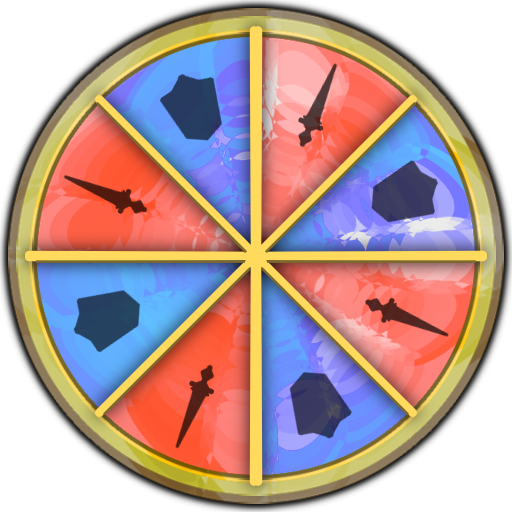
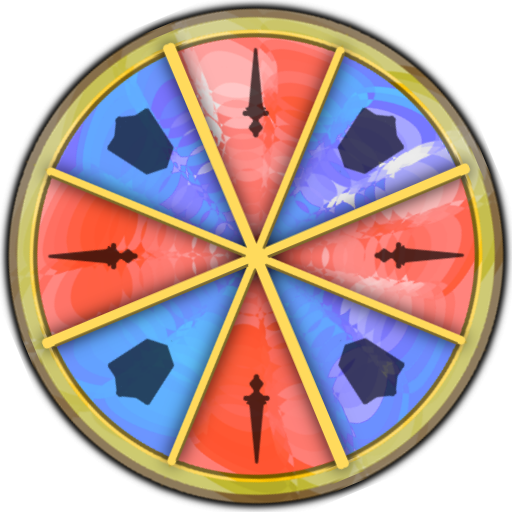
Some wheely good progress

diff --git a/src/main/java/theGambler/wheel/Wheel.java b/src/main/java/theGambler/wheel/Wheel.java
@@ -13,6 +13,8 @@ import com.megacrit.cardcrawl.cards.DamageInfo;
 import com.megacrit.cardcrawl.core.Settings;
 import com.megacrit.cardcrawl.dungeons.AbstractDungeon;
 import com.megacrit.cardcrawl.helpers.Hitbox;
+import com.megacrit.cardcrawl.helpers.TipHelper;
+import com.megacrit.cardcrawl.helpers.input.InputHelper;
 import theGambler.actions.RepeatCardAction;
 import theGambler.util.TexLoader;
 
@@ -24,7 +26,7 @@ import static theGambler.util.Wiz.att;
 
 public class Wheel {
 
-    public static Texture wheelImg = TexLoader.getTexture("fortunoResources/images/ui/Wheel.png");
+    public static Texture wheelImg = TexLoader.getTexture("fortunoResources/images/ui/DebugWheel.png");
     public static Texture arrowImg = TexLoader.getTexture("fortunoResources/images/ui/Arrow.png");
 
     public static ArrayList<ArrayList<AbstractCard>> slots;
@@ -50,14 +52,14 @@ public class Wheel {
 
     public static void atGameStart() {
         hbs = new ArrayList<>();
-        hbs.add(new Hitbox(POSITION_X - 85, POSITION_Y + 85, 76, 76));
-        /*
-        for (int i = 0; i < 8; i++) {
-            float x = POSITION_X - 256F - 60 - 128F;
-            float y = POSITION_Y - 256F - 60;
-            hbs.add(new Hitbox(x, y, 60, 60));
-        }
-         */
+        hbs.add(new Hitbox(POSITION_X - 35, POSITION_Y + 90, 76, 76));
+        hbs.add(new Hitbox(POSITION_X + 55, POSITION_Y + 50, 76, 76));
+        hbs.add(new Hitbox(POSITION_X + 95, POSITION_Y - 35, 76, 76));
+        hbs.add(new Hitbox(POSITION_X + 60, POSITION_Y - 120, 76, 76));
+        hbs.add(new Hitbox(POSITION_X - 35, POSITION_Y - 150, 76, 76));
+        hbs.add(new Hitbox(POSITION_X - 125, POSITION_Y - 120, 76, 76));
+        hbs.add(new Hitbox(POSITION_X - 165, POSITION_Y - 30, 76, 76));
+        hbs.add(new Hitbox(POSITION_X - 125, POSITION_Y + 50, 76, 76));
     }
 
     public static void init() {
@@ -75,7 +77,7 @@ public class Wheel {
 
     public static void spin(Consumer<AbstractCard> postSpin) {
         int result = AbstractDungeon.cardRandomRng.random(slots.size() - 1);
-        resultAngle = (float) result * 60.0F + MathUtils.random(-10.0F, 10.0F);
+        resultAngle = (float) result * 45.0F + MathUtils.random(-5.0F, 5.0F);
         startSpin = true;
         animTimer = phase_one_timer;
         spinVelocity = fullVelocity;
@@ -149,6 +151,12 @@ public class Wheel {
         if (!finishSpin && !startSpin) {
             for (Hitbox hb : hbs) {
                 hb.update();
+            }
+            for (int i = 0; i < hbs.size(); i++) {
+                if (hbs.get(i).hovered) {
+                    int idx = (int) ((i + Math.floor((wheelAngle / 45))) % (hbs.size()));
+
+                }
             }
         }
     }
